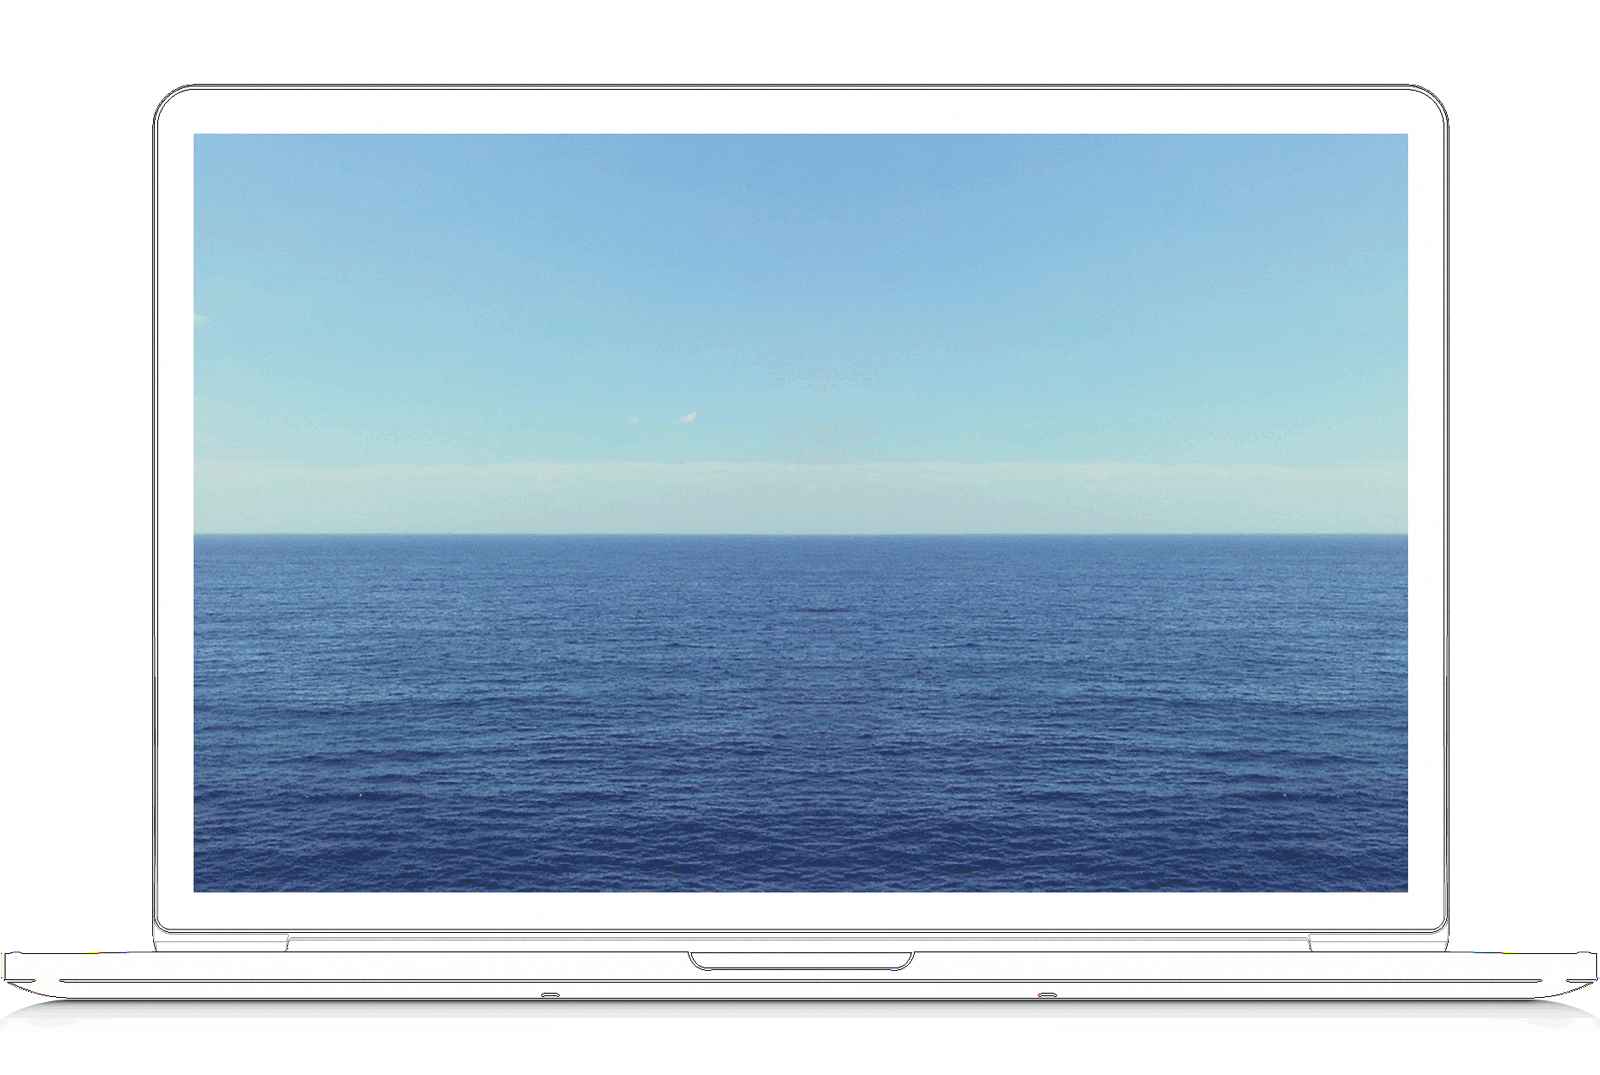
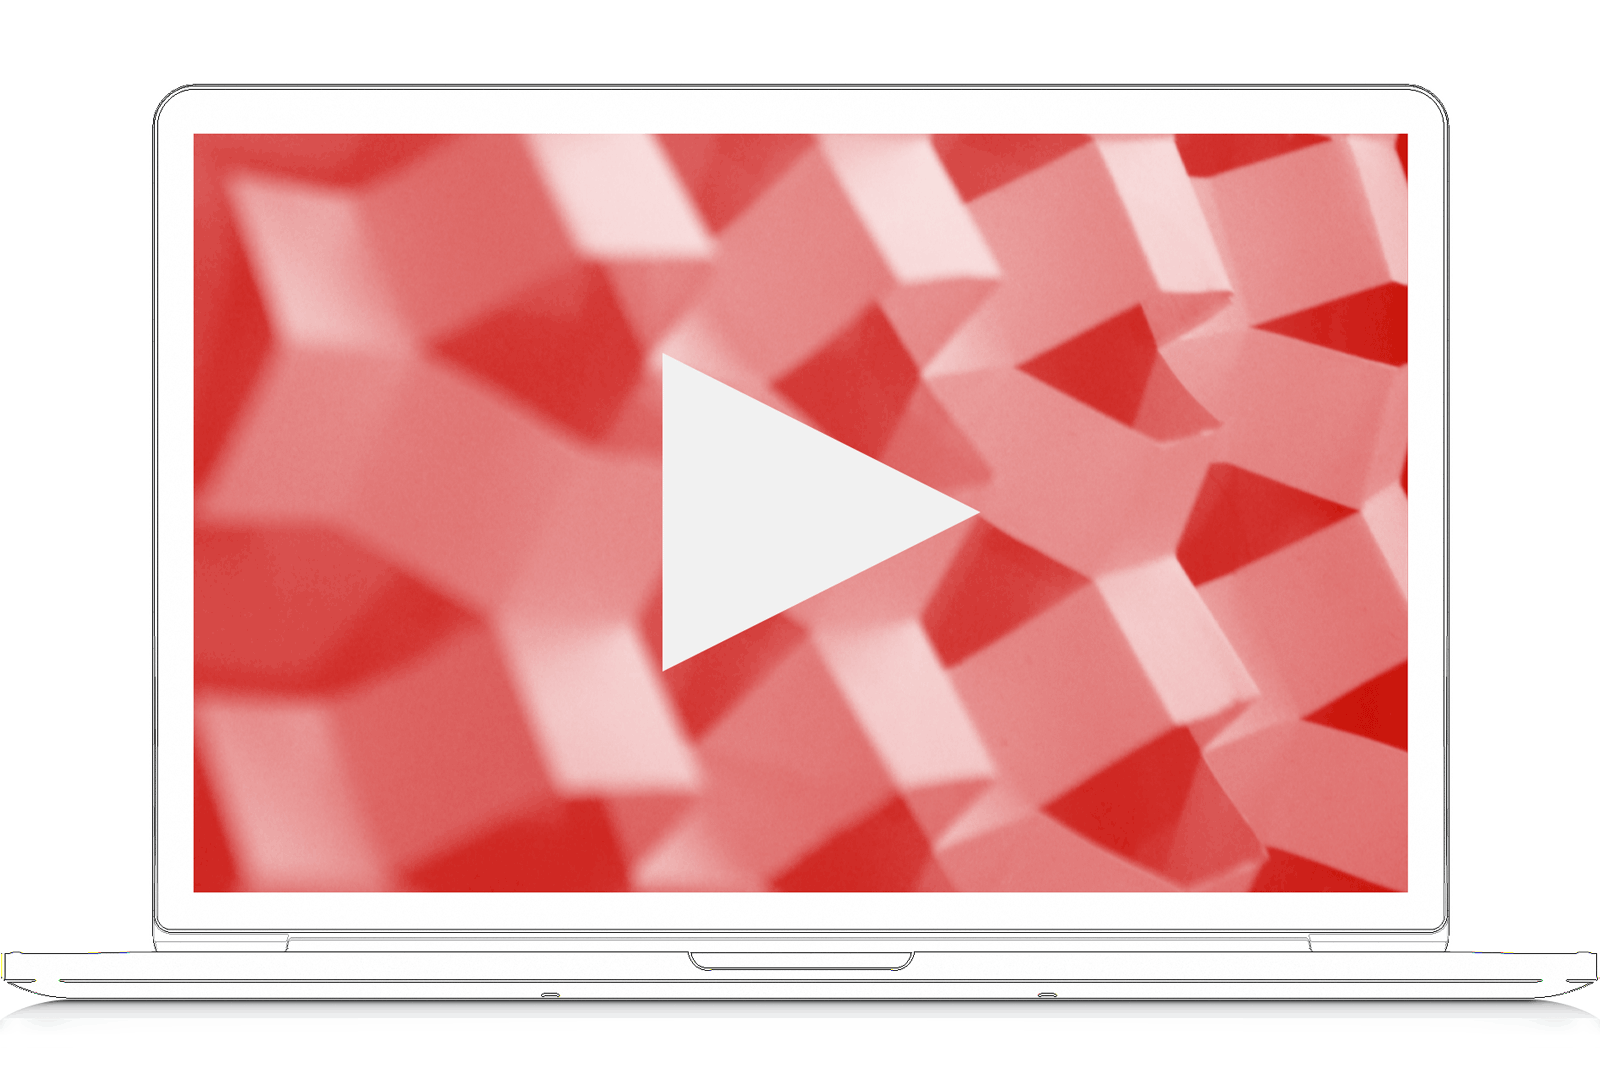
friggin video shit

diff --git a/stylesheets/all.css b/stylesheets/all.css
@@ -568,7 +568,8 @@ nav, .footer {
   top: 0px;
   width: 100%;
   -webkit-transition: top 1s ease-in-out;
-  transition: top 1s ease-in-out; }
+  transition: top 1s ease-in-out;
+  border-bottom: 1px solid #352d2d; }
 
 @-webkit-keyframes logo {
   0% {
@@ -590,11 +591,11 @@ nav, .footer {
     border-radius: 100%; }
   100% {
     border-radius: 0%; } }
-/* line 162, /Users/Ros/Projects/rosskinner.github.io/source/stylesheets/all.scss */
+/* line 163, /Users/Ros/Projects/rosskinner.github.io/source/stylesheets/all.scss */
 h1 {
   padding-left: 10px; }
 
-/* line 169, /Users/Ros/Projects/rosskinner.github.io/source/stylesheets/all.scss */
+/* line 170, /Users/Ros/Projects/rosskinner.github.io/source/stylesheets/all.scss */
 .grid, .container {
   width: 80%;
   margin: 0 auto;
@@ -603,10 +604,10 @@ h1 {
   padding-left: 50px;
   box-sizing: border-box; }
   @media screen and (min-device-width: 320px) and (max-device-width: 480px) {
-    /* line 169, /Users/Ros/Projects/rosskinner.github.io/source/stylesheets/all.scss */
+    /* line 170, /Users/Ros/Projects/rosskinner.github.io/source/stylesheets/all.scss */
     .grid, .container {
       padding-left: 0px; } }
-  /* line 180, /Users/Ros/Projects/rosskinner.github.io/source/stylesheets/all.scss */
+  /* line 181, /Users/Ros/Projects/rosskinner.github.io/source/stylesheets/all.scss */
   .grid .item, .grid div, .container .item, .container div {
     text-align: center;
     display: inline-block;
@@ -616,26 +617,29 @@ h1 {
     position: relative;
     text-align: left; }
     @media screen and (min-device-width: 320px) and (max-device-width: 480px) {
-      /* line 180, /Users/Ros/Projects/rosskinner.github.io/source/stylesheets/all.scss */
+      /* line 181, /Users/Ros/Projects/rosskinner.github.io/source/stylesheets/all.scss */
       .grid .item, .grid div, .container .item, .container div {
         width: 100%;
         text-align: center; } }
-    /* line 193, /Users/Ros/Projects/rosskinner.github.io/source/stylesheets/all.scss */
+    /* line 194, /Users/Ros/Projects/rosskinner.github.io/source/stylesheets/all.scss */
     .grid .item .vid, .grid div .vid, .container .item .vid, .container div .vid {
       display: inline-block;
       position: relative;
-      height: 150px;
+      height: 300px;
       width: 70%;
       background: transparent;
       float: right; }
-      @media screen and (min-device-width: 320px) and (max-device-width: 480px) {
-        /* line 200, /Users/Ros/Projects/rosskinner.github.io/source/stylesheets/all.scss */
-        .grid .item .vid iframe, .grid div .vid iframe, .container .item .vid iframe, .container div .vid iframe {
-          display: none; } }
-    /* line 207, /Users/Ros/Projects/rosskinner.github.io/source/stylesheets/all.scss */
+      /* line 201, /Users/Ros/Projects/rosskinner.github.io/source/stylesheets/all.scss */
+      .grid .item .vid iframe, .grid div .vid iframe, .container .item .vid iframe, .container div .vid iframe {
+        height: 100%; }
+        @media screen and (min-device-width: 320px) and (max-device-width: 480px) {
+          /* line 201, /Users/Ros/Projects/rosskinner.github.io/source/stylesheets/all.scss */
+          .grid .item .vid iframe, .grid div .vid iframe, .container .item .vid iframe, .container div .vid iframe {
+            display: none; } }
+    /* line 209, /Users/Ros/Projects/rosskinner.github.io/source/stylesheets/all.scss */
     .grid .item h5, .grid div h5, .container .item h5, .container div h5 {
       text-align: left; }
-    /* line 210, /Users/Ros/Projects/rosskinner.github.io/source/stylesheets/all.scss */
+    /* line 212, /Users/Ros/Projects/rosskinner.github.io/source/stylesheets/all.scss */
     .grid .item p, .grid div p, .container .item p, .container div p {
       display: inline-block;
       font-size: 0.7em;
@@ -643,93 +647,93 @@ h1 {
       width: 220px;
       padding-bottom: 10px;
       border-bottom: 1px solid #352d2d; }
-      /* line 217, /Users/Ros/Projects/rosskinner.github.io/source/stylesheets/all.scss */
+      /* line 219, /Users/Ros/Projects/rosskinner.github.io/source/stylesheets/all.scss */
       .grid .item p a, .grid div p a, .container .item p a, .container div p a {
         color: red; }
-    /* line 221, /Users/Ros/Projects/rosskinner.github.io/source/stylesheets/all.scss */
+    /* line 223, /Users/Ros/Projects/rosskinner.github.io/source/stylesheets/all.scss */
     .grid .item img, .grid div img, .container .item img, .container div img {
       display: inline-block;
       width: 70%;
       vertical-align: top;
       float: right; }
       @media screen and (min-device-width: 320px) and (max-device-width: 480px) {
-        /* line 221, /Users/Ros/Projects/rosskinner.github.io/source/stylesheets/all.scss */
+        /* line 223, /Users/Ros/Projects/rosskinner.github.io/source/stylesheets/all.scss */
         .grid .item img, .grid div img, .container .item img, .container div img {
           float: none; } }
-  /* line 233, /Users/Ros/Projects/rosskinner.github.io/source/stylesheets/all.scss */
+  /* line 235, /Users/Ros/Projects/rosskinner.github.io/source/stylesheets/all.scss */
   .grid .item:nth-child(5) img, .container .item:nth-child(5) img {
     position: absolute;
     z-index: 1;
     width: 100%; }
     @media screen and (min-device-width: 320px) and (max-device-width: 480px) {
-      /* line 233, /Users/Ros/Projects/rosskinner.github.io/source/stylesheets/all.scss */
+      /* line 235, /Users/Ros/Projects/rosskinner.github.io/source/stylesheets/all.scss */
       .grid .item:nth-child(5) img, .container .item:nth-child(5) img {
         float: none;
         left: -40px; } }
-  /* line 248, /Users/Ros/Projects/rosskinner.github.io/source/stylesheets/all.scss */
+  /* line 250, /Users/Ros/Projects/rosskinner.github.io/source/stylesheets/all.scss */
   .grid .item:nth-child(5) p, .container .item:nth-child(5) p {
     float: left; }
     @media screen and (min-device-width: 320px) and (max-device-width: 480px) {
-      /* line 248, /Users/Ros/Projects/rosskinner.github.io/source/stylesheets/all.scss */
+      /* line 250, /Users/Ros/Projects/rosskinner.github.io/source/stylesheets/all.scss */
       .grid .item:nth-child(5) p, .container .item:nth-child(5) p {
         float: none; } }
 
-/* line 258, /Users/Ros/Projects/rosskinner.github.io/source/stylesheets/all.scss */
+/* line 260, /Users/Ros/Projects/rosskinner.github.io/source/stylesheets/all.scss */
 .container {
   padding-right: 50px; }
   @media screen and (min-device-width: 320px) and (max-device-width: 480px) {
-    /* line 258, /Users/Ros/Projects/rosskinner.github.io/source/stylesheets/all.scss */
+    /* line 260, /Users/Ros/Projects/rosskinner.github.io/source/stylesheets/all.scss */
     .container {
       padding-right: 0; } }
-  /* line 264, /Users/Ros/Projects/rosskinner.github.io/source/stylesheets/all.scss */
+  /* line 266, /Users/Ros/Projects/rosskinner.github.io/source/stylesheets/all.scss */
   .container div {
     display: inline-block;
     width: 220px; }
-    /* line 268, /Users/Ros/Projects/rosskinner.github.io/source/stylesheets/all.scss */
+    /* line 270, /Users/Ros/Projects/rosskinner.github.io/source/stylesheets/all.scss */
     .container div p {
       display: block; }
 
-/* line 274, /Users/Ros/Projects/rosskinner.github.io/source/stylesheets/all.scss */
+/* line 276, /Users/Ros/Projects/rosskinner.github.io/source/stylesheets/all.scss */
 .grid:after, .container:after {
   content: "";
   width: 100%;
   display: inline-block; }
 
-/* line 283, /Users/Ros/Projects/rosskinner.github.io/source/stylesheets/all.scss */
+/* line 285, /Users/Ros/Projects/rosskinner.github.io/source/stylesheets/all.scss */
 .footer {
   background: #352d2d;
   height: 70px;
   color: #FFF;
   padding: 10px;
   box-sizing: border-box; }
-  /* line 289, /Users/Ros/Projects/rosskinner.github.io/source/stylesheets/all.scss */
+  /* line 291, /Users/Ros/Projects/rosskinner.github.io/source/stylesheets/all.scss */
   .footer #q-link {
     display: inline-block;
     width: 29%;
     cursor: pointer; }
-  /* line 294, /Users/Ros/Projects/rosskinner.github.io/source/stylesheets/all.scss */
+  /* line 296, /Users/Ros/Projects/rosskinner.github.io/source/stylesheets/all.scss */
   .footer ul {
     margin: 0;
     vertical-align: top; }
-    /* line 297, /Users/Ros/Projects/rosskinner.github.io/source/stylesheets/all.scss */
+    /* line 299, /Users/Ros/Projects/rosskinner.github.io/source/stylesheets/all.scss */
     .footer ul li {
       margin-top: 0; }
-      /* line 299, /Users/Ros/Projects/rosskinner.github.io/source/stylesheets/all.scss */
+      /* line 301, /Users/Ros/Projects/rosskinner.github.io/source/stylesheets/all.scss */
       .footer ul li a {
         color: #FFF; }
-  /* line 304, /Users/Ros/Projects/rosskinner.github.io/source/stylesheets/all.scss */
+  /* line 306, /Users/Ros/Projects/rosskinner.github.io/source/stylesheets/all.scss */
   .footer p {
     font-size: 0.7em; }
 
-/* line 313, /Users/Ros/Projects/rosskinner.github.io/source/stylesheets/all.scss */
+/* line 315, /Users/Ros/Projects/rosskinner.github.io/source/stylesheets/all.scss */
 .about .container div {
   margin-top: 50px;
   vertical-align: top; }
 
-/* line 325, /Users/Ros/Projects/rosskinner.github.io/source/stylesheets/all.scss */
+/* line 327, /Users/Ros/Projects/rosskinner.github.io/source/stylesheets/all.scss */
 .contact h2 {
   text-align: center; }
-/* line 328, /Users/Ros/Projects/rosskinner.github.io/source/stylesheets/all.scss */
+/* line 330, /Users/Ros/Projects/rosskinner.github.io/source/stylesheets/all.scss */
 .contact form {
   width: 600px;
   margin: 2em auto;
@@ -737,10 +741,10 @@ h1 {
   background: white;
   border-radius: 5px; }
   @media screen and (min-device-width: 320px) and (max-device-width: 480px) {
-    /* line 328, /Users/Ros/Projects/rosskinner.github.io/source/stylesheets/all.scss */
+    /* line 330, /Users/Ros/Projects/rosskinner.github.io/source/stylesheets/all.scss */
     .contact form {
       width: 100%; } }
-  /* line 338, /Users/Ros/Projects/rosskinner.github.io/source/stylesheets/all.scss */
+  /* line 340, /Users/Ros/Projects/rosskinner.github.io/source/stylesheets/all.scss */
   .contact form .message, .contact form .emailcon, .contact form .name, .contact form .footer, .contact form header, .contact form textarea {
     display: block;
     padding: 0;
@@ -748,19 +752,19 @@ h1 {
     border: 0;
     clear: both;
     overflow: hidden; }
-  /* line 347, /Users/Ros/Projects/rosskinner.github.io/source/stylesheets/all.scss */
+  /* line 349, /Users/Ros/Projects/rosskinner.github.io/source/stylesheets/all.scss */
   .contact form header {
     height: 75px;
     background: rgba(0, 0, 0, 0.05);
     line-height: 75px;
     padding-left: 20px;
     border-radius: 5px 5px 0 0; }
-    /* line 354, /Users/Ros/Projects/rosskinner.github.io/source/stylesheets/all.scss */
+    /* line 356, /Users/Ros/Projects/rosskinner.github.io/source/stylesheets/all.scss */
     .contact form header h1 {
       font-size: 1.2em;
       text-transform: uppercase;
       color: rgba(51, 51, 51, 0.4); }
-  /* line 361, /Users/Ros/Projects/rosskinner.github.io/source/stylesheets/all.scss */
+  /* line 363, /Users/Ros/Projects/rosskinner.github.io/source/stylesheets/all.scss */
   .contact form .first, .contact form .last {
     float: left;
     width: 278px;
@@ -769,18 +773,18 @@ h1 {
     border: 1px solid rgba(0, 0, 0, 0.1);
     height: 50px; }
     @media screen and (min-device-width: 320px) and (max-device-width: 480px) {
-      /* line 361, /Users/Ros/Projects/rosskinner.github.io/source/stylesheets/all.scss */
+      /* line 363, /Users/Ros/Projects/rosskinner.github.io/source/stylesheets/all.scss */
       .contact form .first, .contact form .last {
         width: 100%; } }
-  /* line 374, /Users/Ros/Projects/rosskinner.github.io/source/stylesheets/all.scss */
+  /* line 376, /Users/Ros/Projects/rosskinner.github.io/source/stylesheets/all.scss */
   .contact form .last {
     width: 279px;
     border-left: 0; }
     @media screen and (min-device-width: 320px) and (max-device-width: 480px) {
-      /* line 374, /Users/Ros/Projects/rosskinner.github.io/source/stylesheets/all.scss */
+      /* line 376, /Users/Ros/Projects/rosskinner.github.io/source/stylesheets/all.scss */
       .contact form .last {
         width: 100%; } }
-  /* line 383, /Users/Ros/Projects/rosskinner.github.io/source/stylesheets/all.scss */
+  /* line 385, /Users/Ros/Projects/rosskinner.github.io/source/stylesheets/all.scss */
   .contact form .email, .contact form textarea {
     height: 50px;
     width: 578px;
@@ -790,17 +794,17 @@ h1 {
     border-left: 1px solid rgba(0, 0, 0, 0.1);
     border-right: 1px solid rgba(0, 0, 0, 0.1);
     border-bottom: 1px solid rgba(0, 0, 0, 0.1); }
-  /* line 394, /Users/Ros/Projects/rosskinner.github.io/source/stylesheets/all.scss */
+  /* line 396, /Users/Ros/Projects/rosskinner.github.io/source/stylesheets/all.scss */
   .contact form textarea {
     height: 200px; }
-  /* line 399, /Users/Ros/Projects/rosskinner.github.io/source/stylesheets/all.scss */
+  /* line 401, /Users/Ros/Projects/rosskinner.github.io/source/stylesheets/all.scss */
   .contact form footer {
     height: 49px;
     border: 1px dashed rgba(0, 0, 0, 0.3);
     border-radius: 0 0 5px 5px;
     padding-left: 0;
     padding-right: 20px; }
-    /* line 406, /Users/Ros/Projects/rosskinner.github.io/source/stylesheets/all.scss */
+    /* line 408, /Users/Ros/Projects/rosskinner.github.io/source/stylesheets/all.scss */
     .contact form footer button {
       height: 32px;
       background: red;
@@ -812,19 +816,19 @@ h1 {
       padding: 0 20px 0 20px;
       border-bottom: 3px solid #c0392b;
       transition: all linear .2s; }
-      /* line 418, /Users/Ros/Projects/rosskinner.github.io/source/stylesheets/all.scss */
+      /* line 420, /Users/Ros/Projects/rosskinner.github.io/source/stylesheets/all.scss */
       .contact form footer button:hover {
         background: rgba(255, 0, 0, 0.7); }
-      /* line 422, /Users/Ros/Projects/rosskinner.github.io/source/stylesheets/all.scss */
+      /* line 424, /Users/Ros/Projects/rosskinner.github.io/source/stylesheets/all.scss */
       .contact form footer button:focus {
         outline: none; }
-  /* line 428, /Users/Ros/Projects/rosskinner.github.io/source/stylesheets/all.scss */
+  /* line 430, /Users/Ros/Projects/rosskinner.github.io/source/stylesheets/all.scss */
   .contact form .first:focus, .contact form .last:focus, .contact form .email:focus, .contact form textarea:focus, .contact form textarea:focus {
     outline: none;
     background: rgba(255, 0, 0, 0.1);
     color: rgba(51, 51, 51, 0.7); }
 
-/* line 439, /Users/Ros/Projects/rosskinner.github.io/source/stylesheets/all.scss */
+/* line 441, /Users/Ros/Projects/rosskinner.github.io/source/stylesheets/all.scss */
 iframe {
   z-index: 100;
   position: absolute;
@@ -832,6 +836,6 @@ iframe {
   top: 15px;
   border: none; }
   @media screen and (min-device-width: 320px) and (max-device-width: 480px) {
-    /* line 439, /Users/Ros/Projects/rosskinner.github.io/source/stylesheets/all.scss */
+    /* line 441, /Users/Ros/Projects/rosskinner.github.io/source/stylesheets/all.scss */
     iframe {
       left: 62px; } }

diff --git a/index.html b/index.html
@@ -121,8 +121,9 @@
           </br>
         </p>
         <div class='vid'>
-          <img src="/images/macmock.png" />
-          <iframe allowfullscreen='' height='244%' mozallowfullscreen='' src='//player.vimeo.com/video/31481814' style='position:relative;top:65px;left: 93px;' webkitallowfullscreen='' width='76%'></iframe>
+          <a href='https://vimeo.com/31481814' target='_blank'>
+            <img src="/images/macmock.png" />
+          </a>
         </div>
       </div>
     </div>
